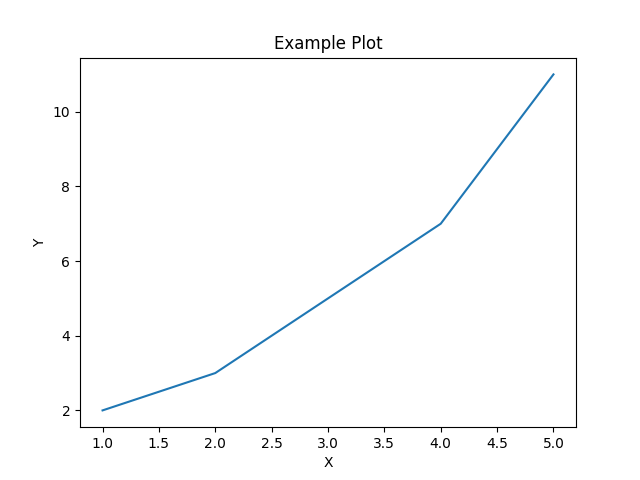
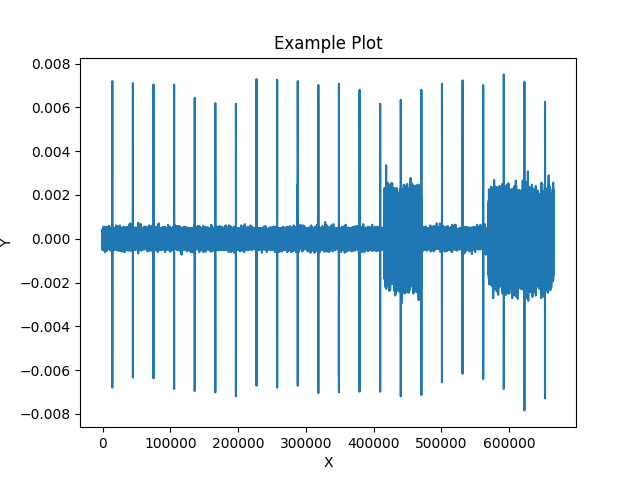
send first sample spectogram data to 3d vis

diff --git a/client/src/pages/recording-view-multiple/components/three-dim-plot.tsx b/client/src/pages/recording-view-multiple/components/three-dim-plot.tsx
@@ -2,6 +2,7 @@ import Plot from 'react-plotly.js';
 import React, { useEffect, useState } from 'react';
 import { template } from '@/utils/plotlyTemplate';
 import { useSpectrogramContext } from '../hooks/use-spectrogram-context';
+import { convertFloat32ArrayToBase64, convertBase64ToFloat32Array } from '@/utils/rf-functions';
 
 interface IQPlotProps {
   displayedIQ: Float32Array;
@@ -19,30 +20,46 @@ export const ThreeDimPlot = ({ displayedIQ }: IQPlotProps) => {
       samples_b64: [],
     };
 
-    // const newSamps = convertFloat32ArrayToBase64(cursorData);
-    // console.log(newSamps);
+    const newSamps1 = convertFloat32ArrayToBase64(displayedIQ);
+    console.log(newSamps1);
+
+    // body = {
+    //   samples_b64: [
+    //     {
+    //       // samples: newSamps,
+    //       // sample_rate: sampleRate,
+    //       // center_freq: freq,
+    //       // data_type: MimeTypes[meta.getDataType()],
+    //     },
+    //   ],
+    // };
+
+    // samples.forEach((sample) => {
+    //   body.samples_b64.push({
+    //     samples: sample.base64Data, // Assuming each sample has a base64Data property
+    //     sample_rate: sample.sampleRate,
+    //     center_freq: sample.centerFrequency,
+    //     data_type: sample.dataType,
+    //   });
+    // });
 
     body = {
       samples_b64: [
         {
-          // samples: newSamps,
-          // sample_rate: sampleRate,
-          // center_freq: freq,
-          // data_type: MimeTypes[meta.getDataType()],
+          samples: newSamps1,
         },
       ],
     };
+    console.log(body);
 
-    const BlobFromSamples = (samples_base64, data_type) => {
-      const samples = window.atob(samples_base64);
-      var blob_array = new Uint8Array(samples.length);
-      for (var i = 0; i < samples.length; i++) {
-        blob_array[i] = samples.charCodeAt(i);
-      }
-      return new Blob([blob_array], { type: data_type });
-    };
-
-    fetch('/api/plot')
+    fetch('/api/three-dim-plot', {
+      method: 'POST',
+      headers: {
+        Accept: 'application/json',
+        'Content-Type': 'application/json',
+      },
+      body: JSON.stringify(body),
+    })
       .then((response) => response.json())
       .then((data) => {
         console.log(data);

diff --git a/api/app/three_dim_vis.py b/api/app/three_dim_vis.py
@@ -5,15 +5,25 @@ import matplotlib.pyplot as plt
 import tempfile
 from pydantic.dataclasses import dataclass
 from fastapi import APIRouter
+import base64
+from typing import List, Optional
+from pydantic import BaseModel
 
-router = APIRouter()
+class SamplesB64(BaseModel):
+    samples: str
 
-def generate_plot():
-    # TODO samples
+class SpectrogramData(BaseModel):
+    samples_b64: Optional[list[SamplesB64]] = None
+
+# @dataclass
+# class SpectrogramData:
+def generate_plot(samples):
+    # TODO
+    # we have to pass in spectogram data
     x = [1, 2, 3, 4, 5]
     y = [2, 3, 5, 7, 11]
 
-    plt.plot(x, y)
+    plt.plot(samples)
     plt.xlabel('X')
     plt.ylabel('Y')
     plt.title('Example Plot')
@@ -29,10 +39,14 @@ def generate_plot():
 
     plot_file_path = 'three-dim-plot-figure.png'
     plt.savefig(plot_file_path)
-    return plot_file_path
-    
+    return {'plot_file_path': plot_file_path}    
 
-@router.get('/api/plot')
-async def get_plot():
-    plot_file_path = generate_plot()
-    return {'plot_file_path': plot_file_path}
+router = APIRouter()
+
+@router.post('/api/three-dim-plot')
+async def get_plot(spectograms: SpectrogramData):
+    # TODO pass in spectogram data in json, like with plugins
+    # then pass to generate_plot()
+    samples = np.frombuffer(base64.decodebytes(spectograms.samples_b64[0].samples.encode()), dtype=np.complex64)
+    print(samples)
+    return generate_plot(samples)
